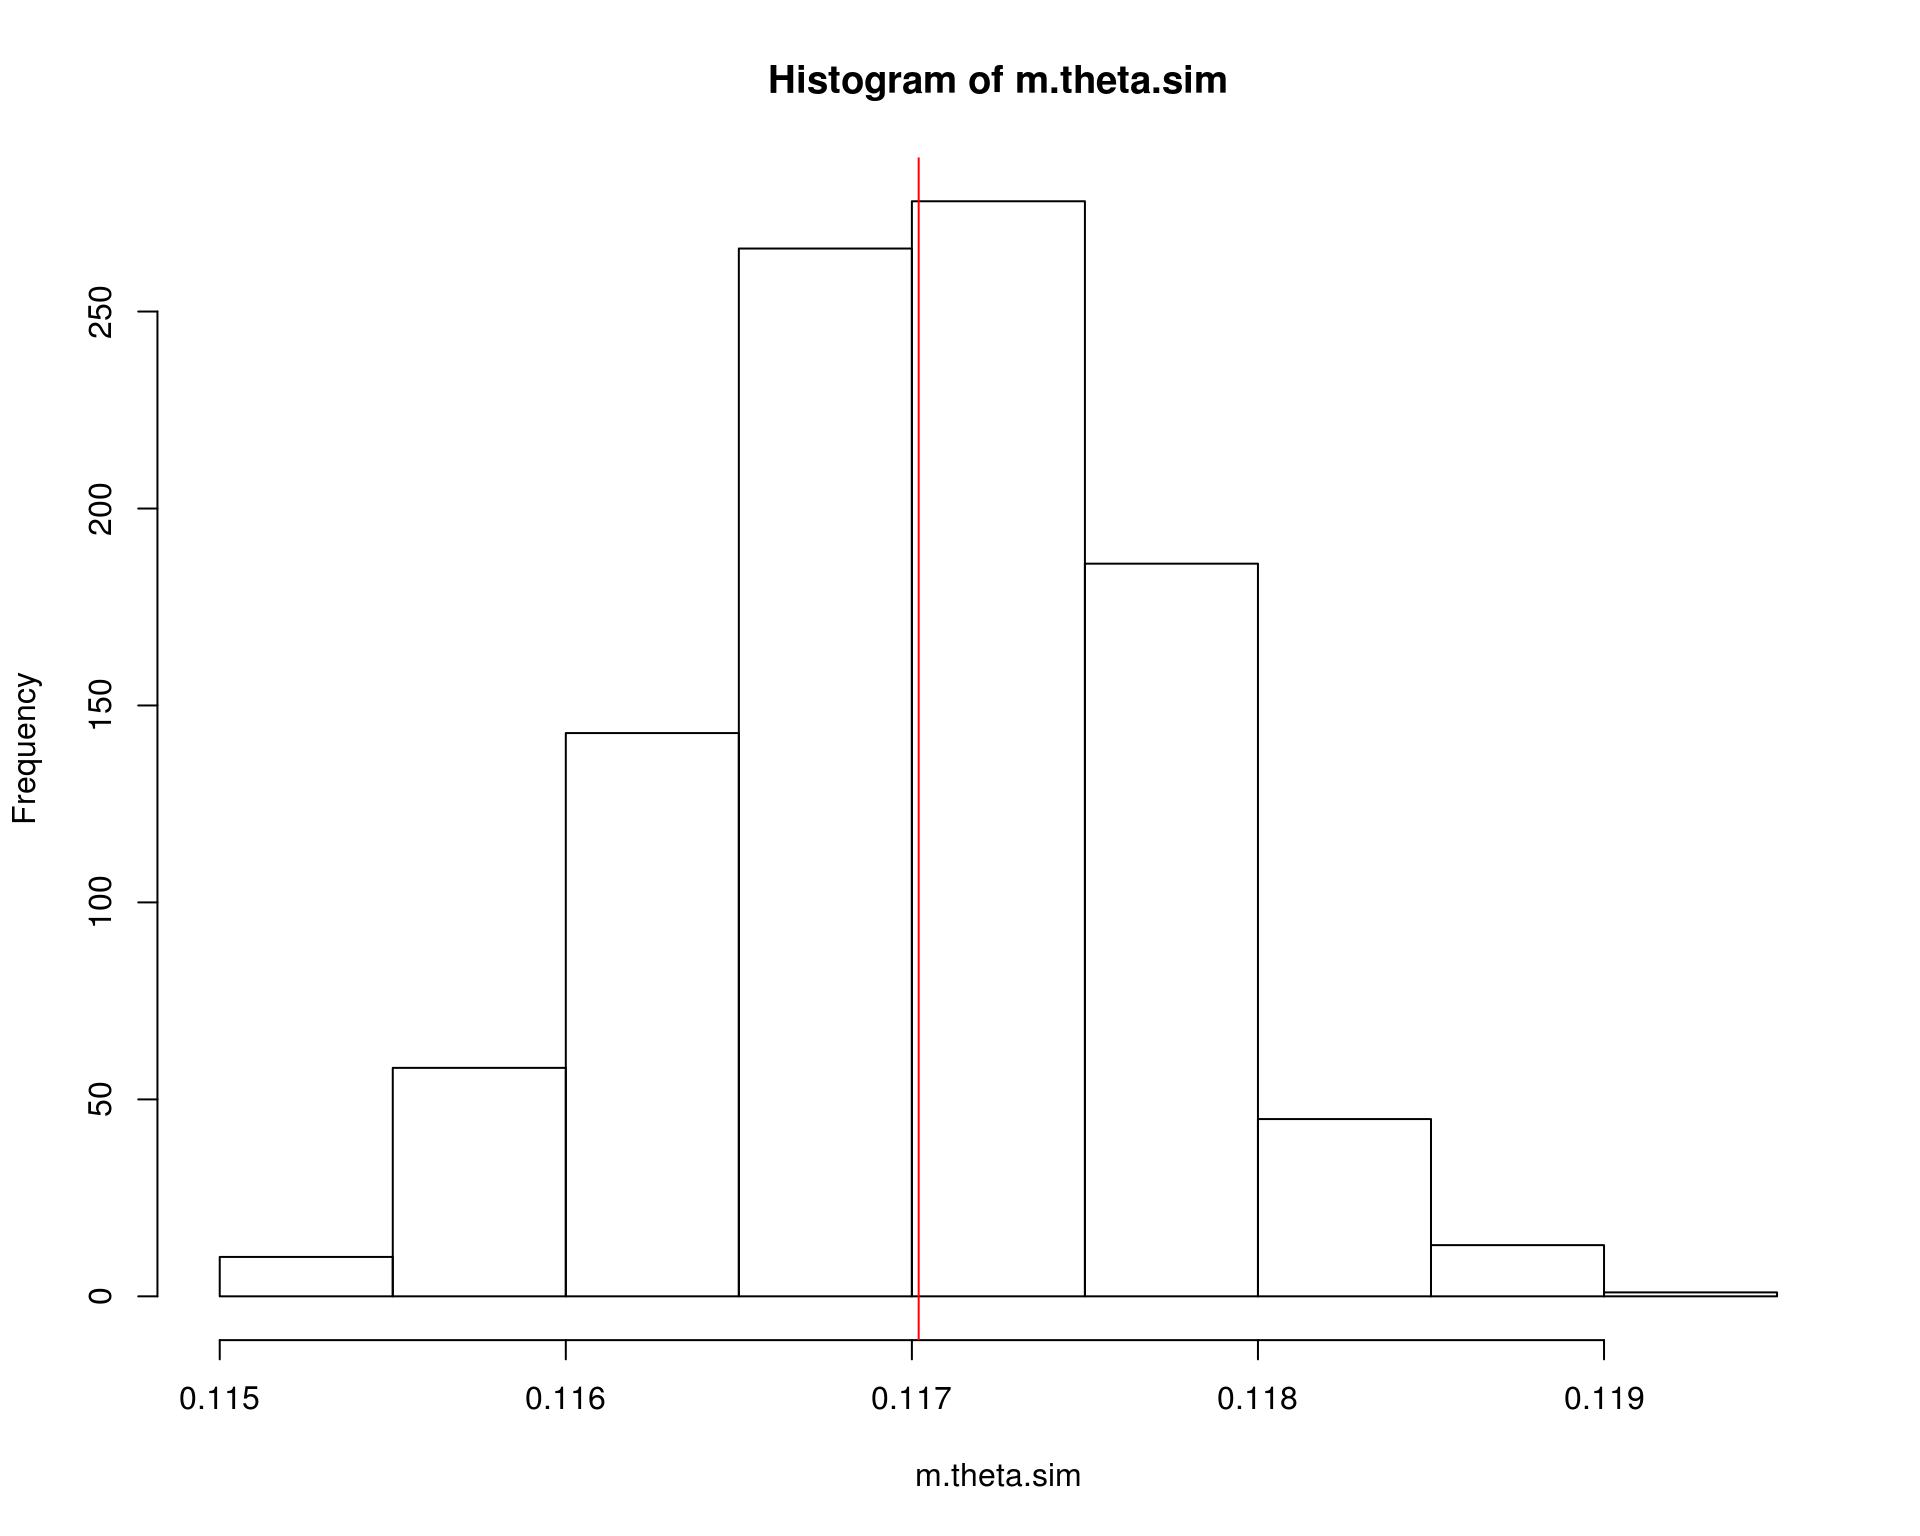
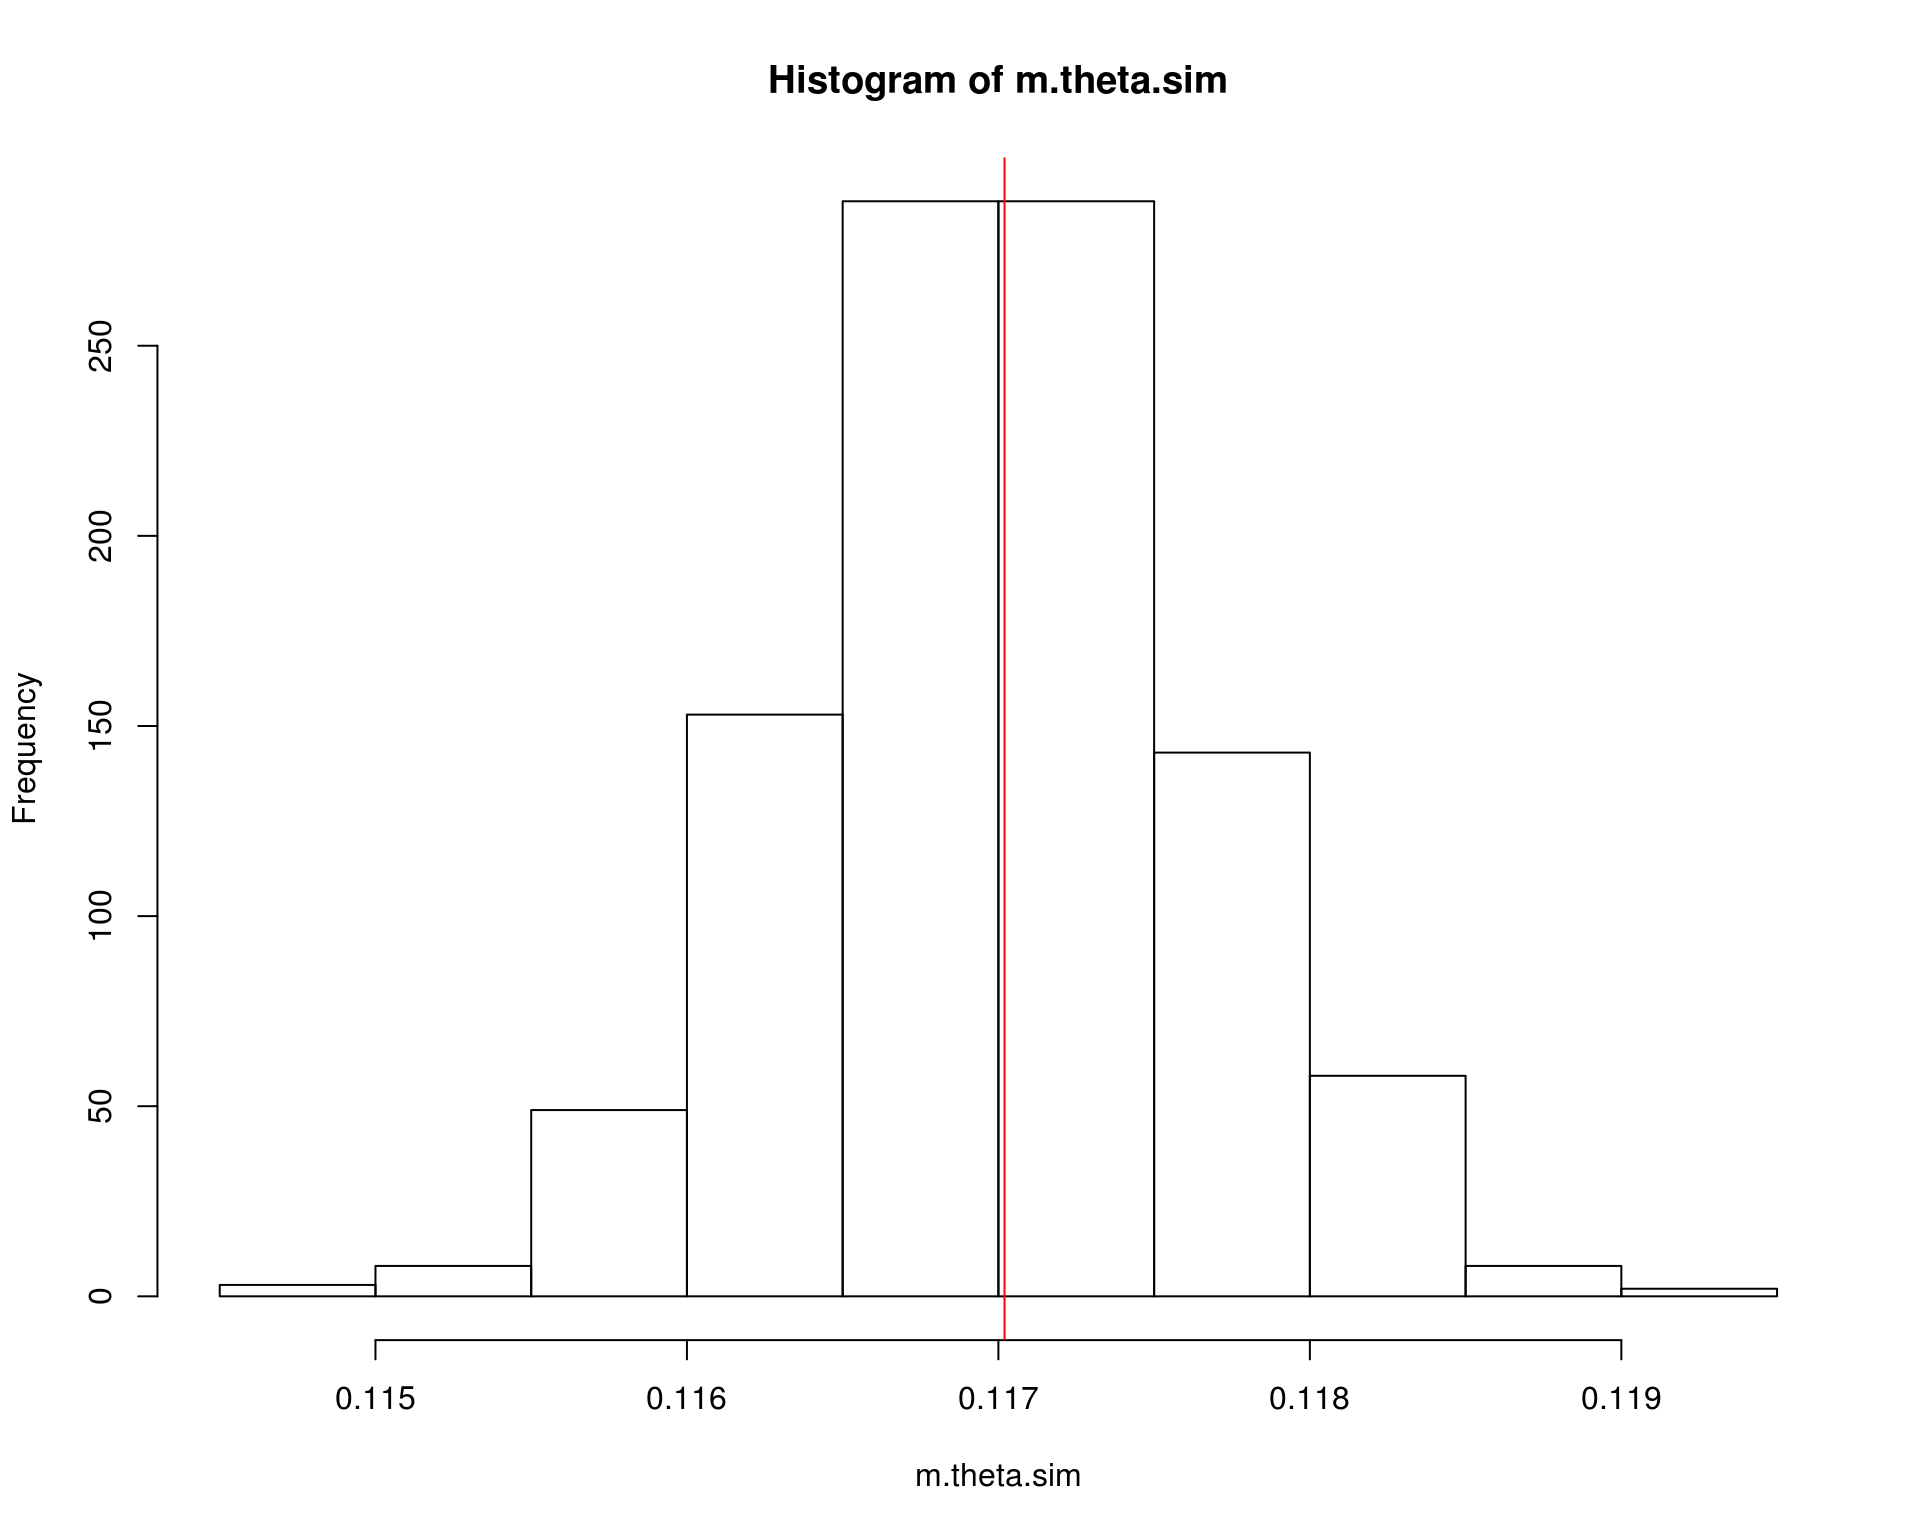
The site is alive.

diff --git a/MC_intro.html b/MC_intro.html
@@ -553,7 +553,7 @@ P(\lim_{n \to \infty} |\bar{X}_n - \mu| &lt; \epsilon) = 1
 <a class="sourceLine" id="cb1-5" title="5">theta.hat &lt;-<span class="st"> </span><span class="kw">exp</span>(<span class="op">-</span>x)</a>
 <a class="sourceLine" id="cb1-6" title="6"><span class="co">## Calcula a média</span></a>
 <a class="sourceLine" id="cb1-7" title="7">(m.theta.hat &lt;-<span class="st"> </span><span class="kw">sum</span>(theta.hat)<span class="op">/</span>m)</a>
-<a class="sourceLine" id="cb1-8" title="8"><span class="co"># [1] 0.6308794</span></a></code></pre></div>
+<a class="sourceLine" id="cb1-8" title="8"><span class="co"># [1] 0.6332296</span></a></code></pre></div>
 <p>Nesse caso, podemos obter a solução analítica e integração numérica no R para comparar as estimativas</p>
 <div class="sourceCode" id="cb2"><pre class="sourceCode r"><code class="sourceCode r"><a class="sourceLine" id="cb2-1" title="1"><span class="co">## Solução analítica</span></a>
 <a class="sourceLine" id="cb2-2" title="2">(theta &lt;-<span class="st"> </span><span class="dv">1</span> <span class="op">-</span><span class="st"> </span><span class="kw">exp</span>(<span class="op">-</span><span class="dv">1</span>))</a>
@@ -593,7 +593,7 @@ P(\lim_{n \to \infty} |\bar{X}_n - \mu| &lt; \epsilon) = 1
 <a class="sourceLine" id="cb3-6" title="6">theta.hat &lt;-<span class="st"> </span><span class="kw">exp</span>(<span class="op">-</span>x)</a>
 <a class="sourceLine" id="cb3-7" title="7"><span class="co">## Calcula a média * (b - a)</span></a>
 <a class="sourceLine" id="cb3-8" title="8">(m.theta.hat &lt;-<span class="st"> </span>(<span class="kw">sum</span>(theta.hat)<span class="op">/</span>m) <span class="op">*</span><span class="st"> </span>(b <span class="op">-</span><span class="st"> </span>a))</a>
-<a class="sourceLine" id="cb3-9" title="9"><span class="co"># [1] 0.1175954</span></a></code></pre></div>
+<a class="sourceLine" id="cb3-9" title="9"><span class="co"># [1] 0.1166446</span></a></code></pre></div>
 <p>Nesse caso, podemos obter a solução analítica e integração numérica no R para comparar as estimativas</p>
 <div class="sourceCode" id="cb4"><pre class="sourceCode r"><code class="sourceCode r"><a class="sourceLine" id="cb4-1" title="1"><span class="co">## Solução analítica</span></a>
 <a class="sourceLine" id="cb4-2" title="2">(theta &lt;-<span class="st"> </span><span class="kw">exp</span>(<span class="op">-</span><span class="dv">2</span>) <span class="op">-</span><span class="st"> </span><span class="kw">exp</span>(<span class="op">-</span><span class="dv">4</span>))</a>
@@ -614,7 +614,7 @@ P[X&gt;2] = \int_2^{\infty} e^{-x} dx
 <a class="sourceLine" id="cb5-5" title="5">theta.hat2 &lt;-<span class="st"> </span><span class="kw">exp</span>(<span class="op">-</span>x2)</a>
 <a class="sourceLine" id="cb5-6" title="6"><span class="co">## Calcula a média * (b - a)</span></a>
 <a class="sourceLine" id="cb5-7" title="7">(m.theta.hat2 &lt;-<span class="st"> </span>(<span class="kw">sum</span>(theta.hat2)<span class="op">/</span>m) <span class="op">*</span><span class="st"> </span>(<span class="fl">1e5</span> <span class="op">-</span><span class="st"> </span><span class="dv">2</span>))</a>
-<a class="sourceLine" id="cb5-8" title="8"><span class="co"># [1] 0.00980712</span></a>
+<a class="sourceLine" id="cb5-8" title="8"><span class="co"># [1] 9.351985e-05</span></a>
 <a class="sourceLine" id="cb5-9" title="9"><span class="co">## Solução analítica</span></a>
 <a class="sourceLine" id="cb5-10" title="10">(theta2 &lt;-<span class="st"> </span><span class="kw">exp</span>(<span class="op">-</span><span class="dv">2</span>) <span class="op">-</span><span class="st"> </span><span class="kw">exp</span>(<span class="op">-</span><span class="fl">1e5</span>))</a>
 <a class="sourceLine" id="cb5-11" title="11"><span class="co"># [1] 0.1353353</span></a>
@@ -635,17 +635,17 @@ P[X&gt;2] = \int_2^{\infty} e^{-x} dx
 \]</span></p>
 <p>Seguindo o exemplo anterior, vimos que a estimativa da integral é</p>
 <div class="sourceCode" id="cb6"><pre class="sourceCode r"><code class="sourceCode r"><a class="sourceLine" id="cb6-1" title="1">m.theta.hat</a>
-<a class="sourceLine" id="cb6-2" title="2"><span class="co"># [1] 0.1175954</span></a></code></pre></div>
+<a class="sourceLine" id="cb6-2" title="2"><span class="co"># [1] 0.1166446</span></a></code></pre></div>
 <p>Mas veja que existe uma distribuição de valores para compor esta estimativa média</p>
 <div class="sourceCode" id="cb7"><pre class="sourceCode r"><code class="sourceCode r"><a class="sourceLine" id="cb7-1" title="1"><span class="kw">hist</span>(theta.hat); <span class="kw">abline</span>(<span class="dt">v =</span> theta, <span class="dt">col =</span> <span class="dv">2</span>)</a></code></pre></div>
 <p><img src="figures/MC_intro/unnamed-chunk-9-1.png" width="80%" style="display: block; margin: auto;" /></p>
 <p>A variância relacionada ao estimador pode então ser calculada como</p>
 <div class="sourceCode" id="cb8"><pre class="sourceCode r"><code class="sourceCode r"><a class="sourceLine" id="cb8-1" title="1"><span class="co">## Variancia</span></a>
 <a class="sourceLine" id="cb8-2" title="2">(v.theta.hat &lt;-<span class="st"> </span><span class="kw">sum</span>((theta.hat <span class="op">-</span><span class="st"> </span>m.theta.hat)<span class="op">^</span><span class="dv">2</span>)<span class="op">/</span>m<span class="op">^</span><span class="dv">2</span>)</a>
-<a class="sourceLine" id="cb8-3" title="3"><span class="co"># [1] 4.540711e-07</span></a>
+<a class="sourceLine" id="cb8-3" title="3"><span class="co"># [1] 4.43935e-07</span></a>
 <a class="sourceLine" id="cb8-4" title="4"><span class="co">## Erro padrão</span></a>
 <a class="sourceLine" id="cb8-5" title="5">(se.theta.hat &lt;-<span class="st"> </span><span class="kw">sqrt</span>(v.theta.hat))</a>
-<a class="sourceLine" id="cb8-6" title="6"><span class="co"># [1] 0.000673848</span></a></code></pre></div>
+<a class="sourceLine" id="cb8-6" title="6"><span class="co"># [1] 0.0006662845</span></a></code></pre></div>
 <p>Pelo Teorema do Limite Central, temos que</p>
 <p><span class="math display">\[
 \frac{\hat\theta - \text{E}(\hat\theta)}{\sqrt{\hat{V}(\hat\theta)}}
@@ -659,10 +659,10 @@ P[X&gt;2] = \int_2^{\infty} e^{-x} dx
 <p>Com esse resultado, podemos inclusive fornecer um intervalo de confiança associado à nossa estimativa</p>
 <div class="sourceCode" id="cb10"><pre class="sourceCode r"><code class="sourceCode r"><a class="sourceLine" id="cb10-1" title="1"><span class="co">## Media e veriancia</span></a>
 <a class="sourceLine" id="cb10-2" title="2"><span class="kw">c</span>(m.theta.hat, v.theta.hat)</a>
-<a class="sourceLine" id="cb10-3" title="3"><span class="co"># [1] 1.175954e-01 4.540711e-07</span></a>
+<a class="sourceLine" id="cb10-3" title="3"><span class="co"># [1] 1.166446e-01 4.439350e-07</span></a>
 <a class="sourceLine" id="cb10-4" title="4"><span class="co">## Intervalo de confiança (95%)</span></a>
 <a class="sourceLine" id="cb10-5" title="5"><span class="kw">c</span>(m.theta.hat <span class="op">-</span><span class="st"> </span><span class="fl">1.96</span> <span class="op">*</span><span class="st"> </span>se.theta.hat, m.theta.hat <span class="op">+</span><span class="st"> </span><span class="fl">1.96</span> <span class="op">*</span><span class="st"> </span>se.theta.hat)</a>
-<a class="sourceLine" id="cb10-6" title="6"><span class="co"># [1] 0.1162747 0.1189162</span></a></code></pre></div>
+<a class="sourceLine" id="cb10-6" title="6"><span class="co"># [1] 0.1153387 0.1179505</span></a></code></pre></div>
 <p>Veja que assintoticamente, i.e., conforme aumentamos o tamanho da amostra, o valor da integral se aproxima cada vez mais do valor verdadeiro (que nesse caso sabemos calcular analiticamente, apenas para comparação).</p>
 <div class="sourceCode" id="cb11"><pre class="sourceCode r"><code class="sourceCode r"><a class="sourceLine" id="cb11-1" title="1"><span class="co">## Simula a convergência para o verdadeiro valor conforme aumenta o</span></a>
 <a class="sourceLine" id="cb11-2" title="2"><span class="co">## tamanho da amostra</span></a>
